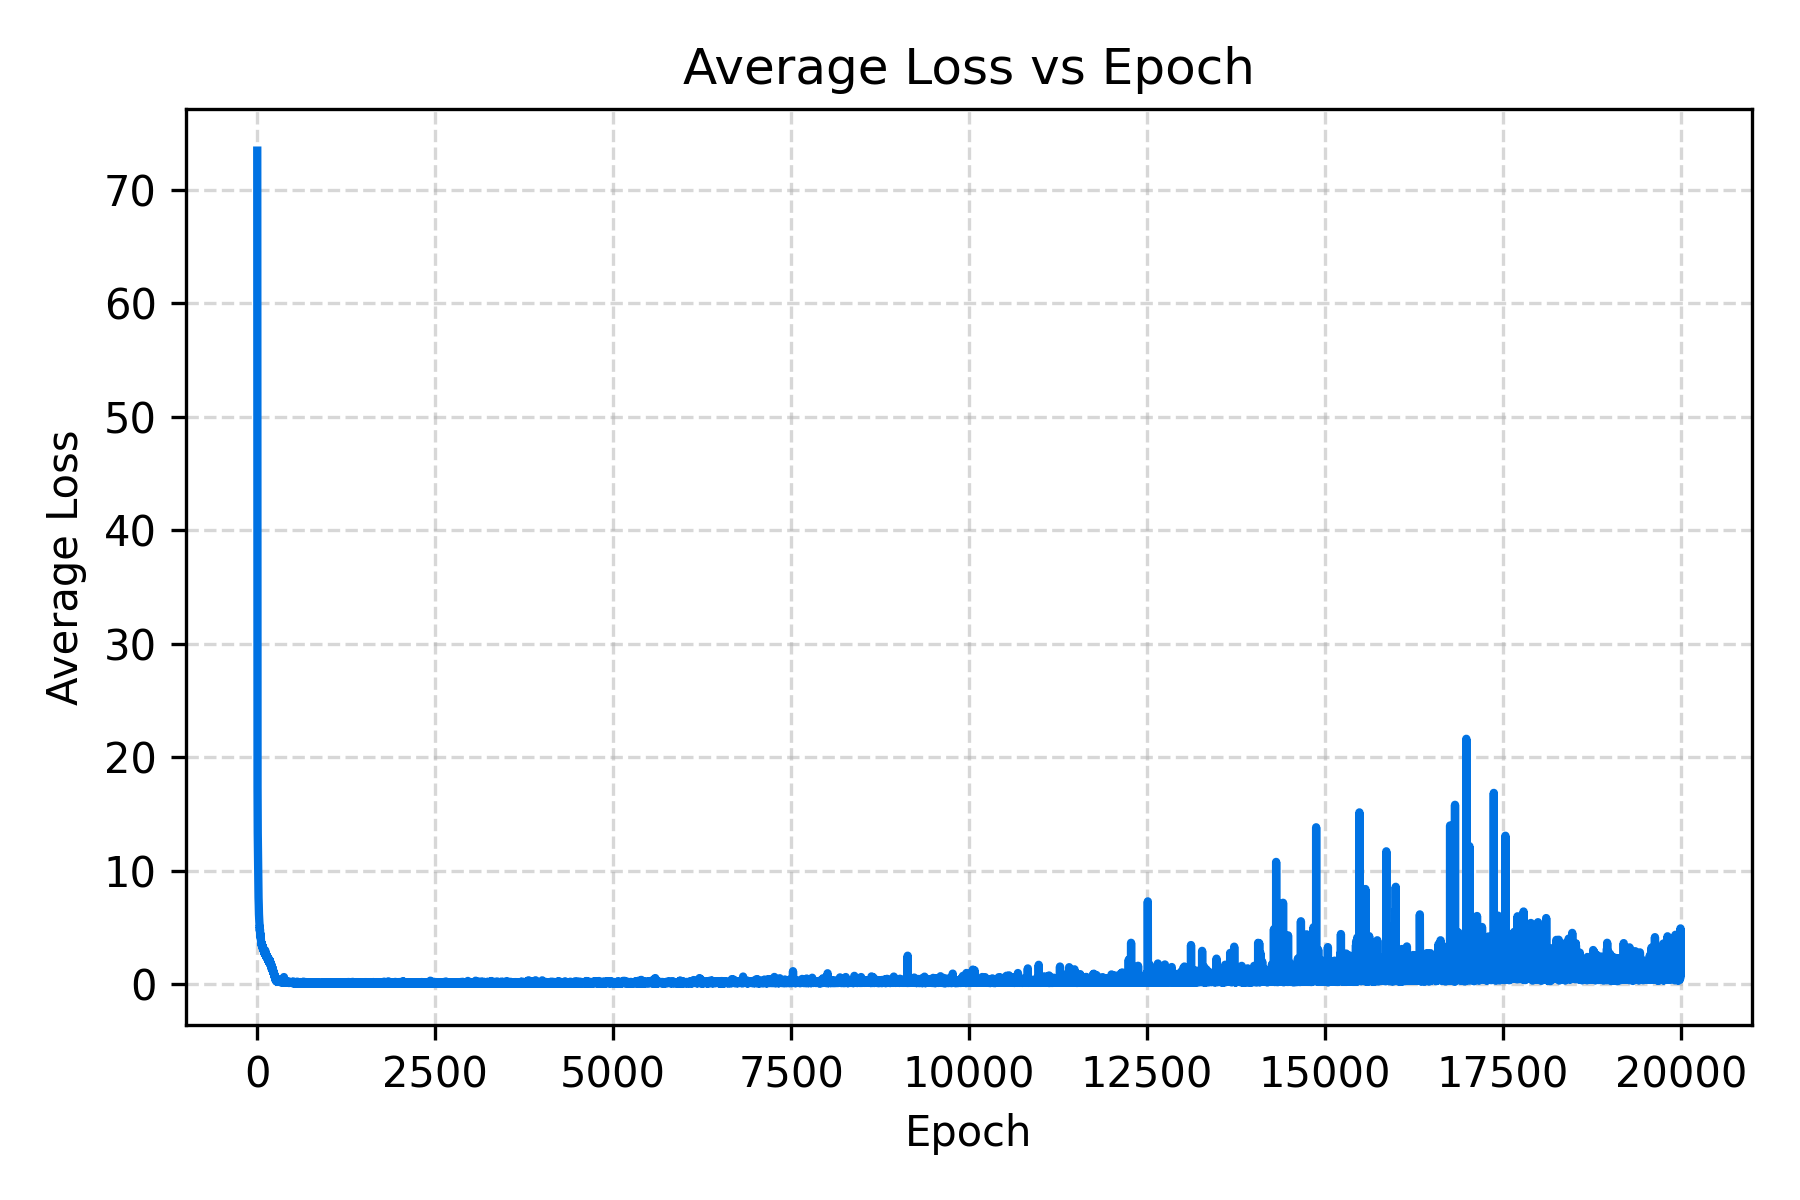
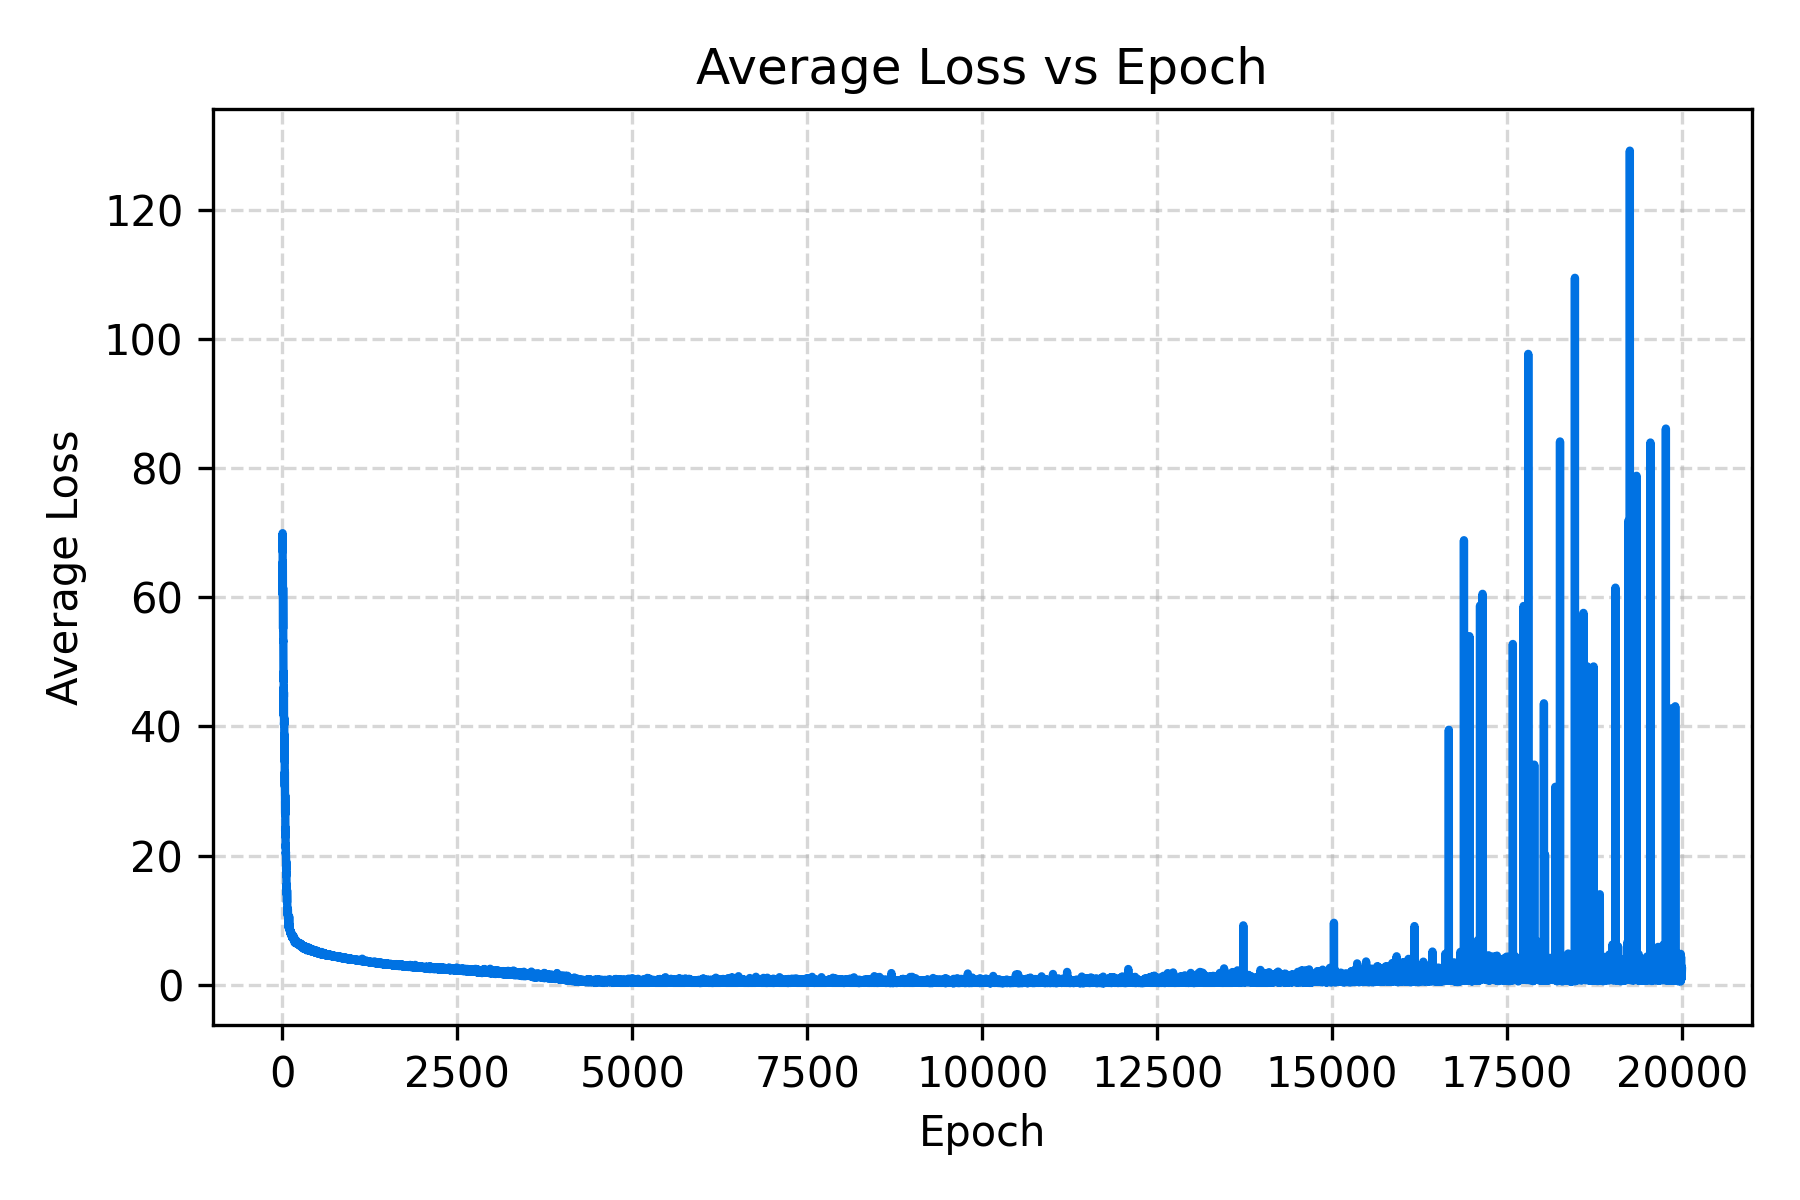
update

diff --git a/_0_draw_trajectories.py b/_0_draw_trajectories.py
@@ -12,6 +12,8 @@ _3_nearby_raw_data = read_three_nearby_circle_data()
 _2_seperate_raw_data = read_two_seperate_circle_data()
 _8_shape_raw_data = read_eight_shape_data()
 
+print(len(_8_shape_raw_data[0]))
+
 plt.figure(figsize=(18, 5))
 
 ax0 = plt.subplot(1, 3, 1)

diff --git a/_2_cycle_th_rnn_tf.py b/_2_cycle_th_rnn_tf.py
@@ -66,7 +66,7 @@ c0_list = [
 # =========================================================
 # 5. optimizer and loss
 # =========================================================
-optimizer = Adam(
+optimizer = SGD(
     model.parameters() + c0_list,
     lr=0.003
 )
